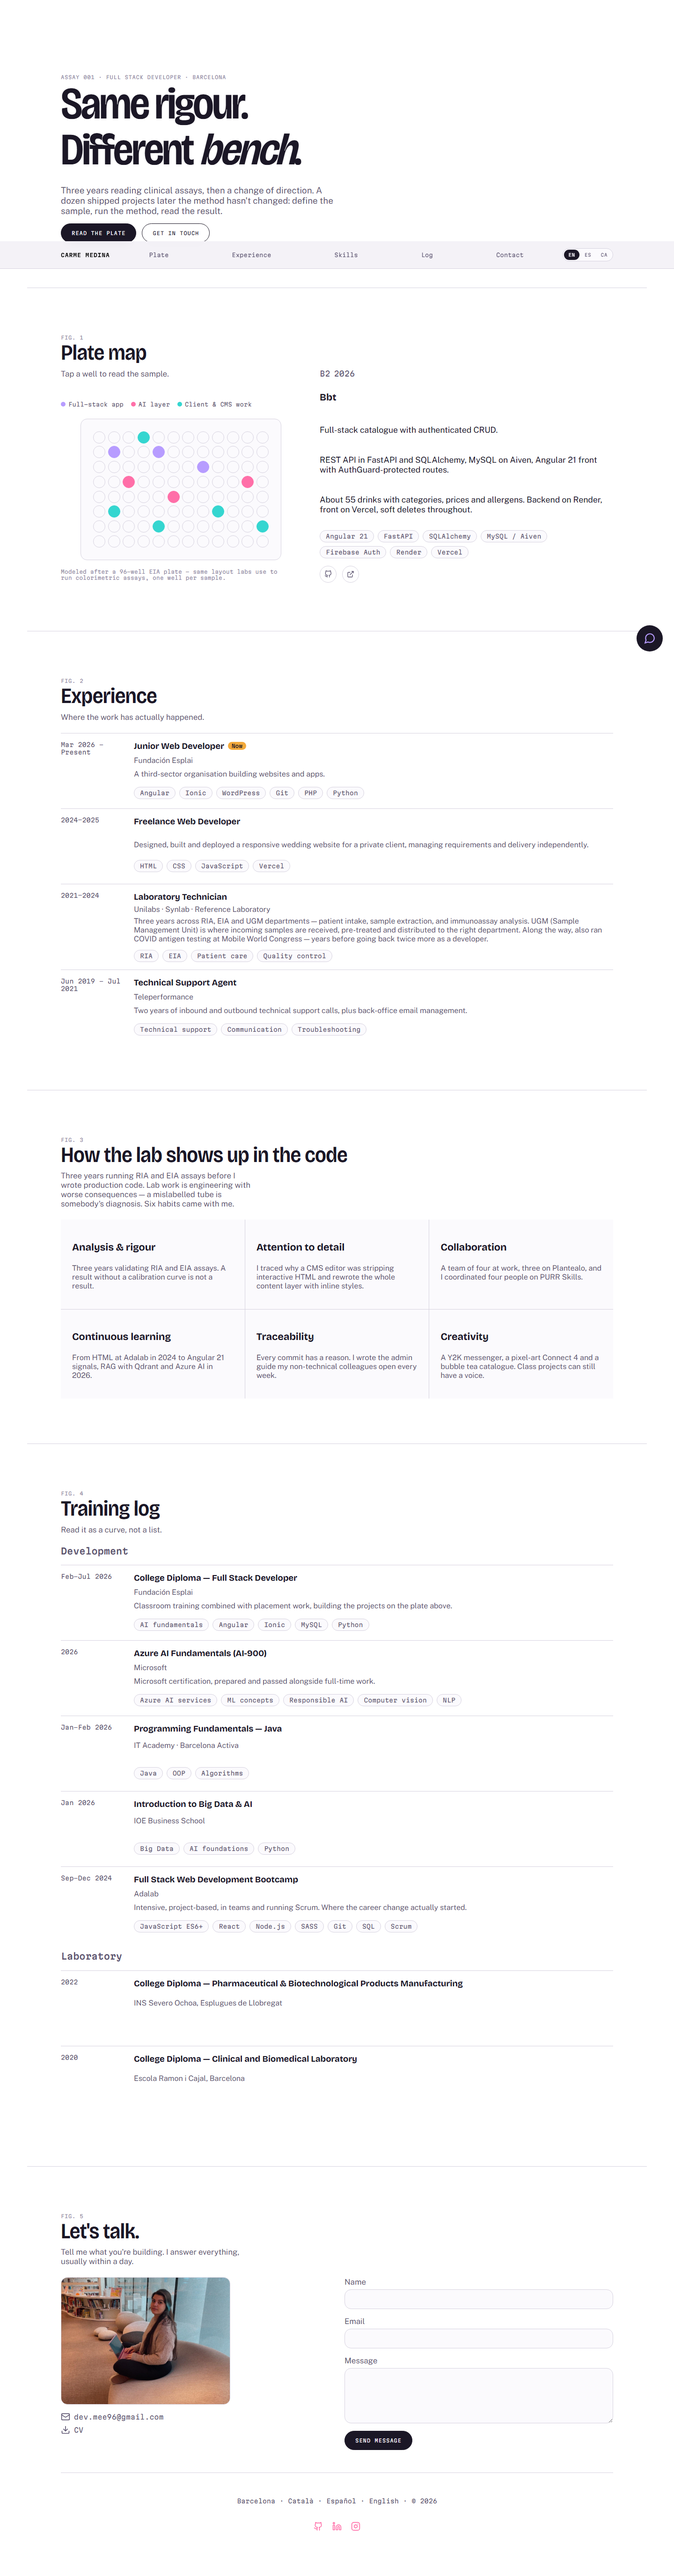
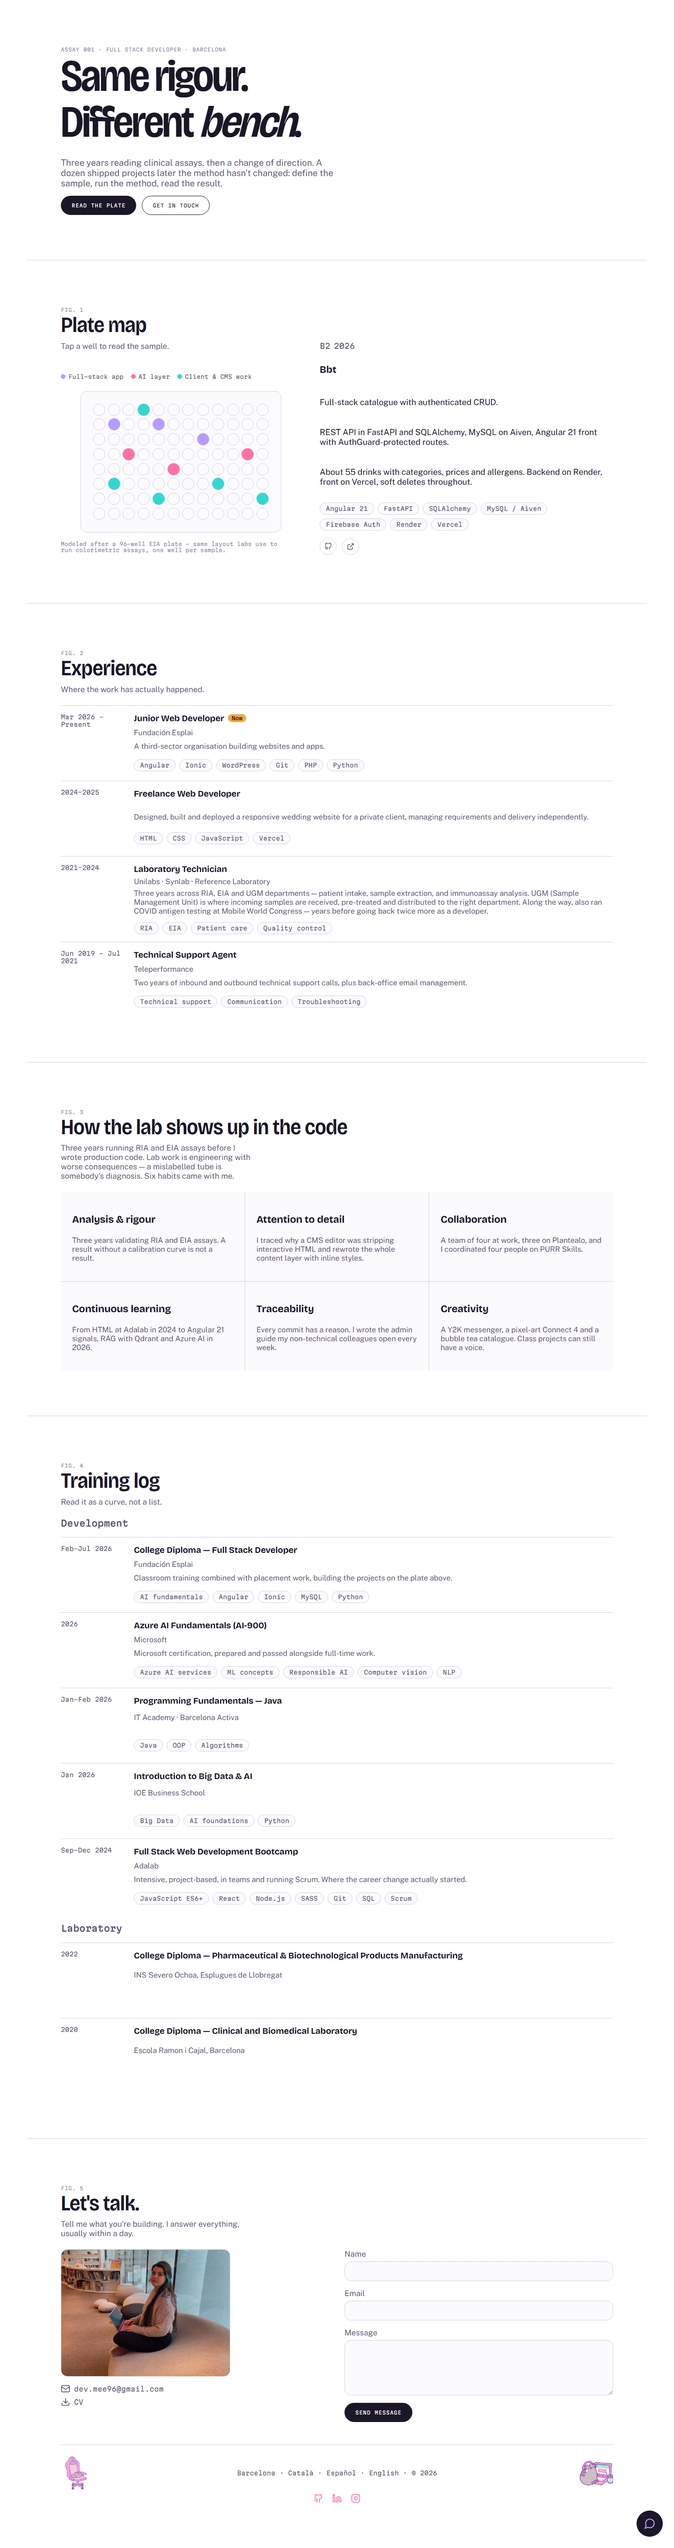
docs: polish header layout with grouped GIFs and language badges, crop overview screenshot and document keep-alive

diff --git a/README.es.md b/README.es.md
@@ -7,14 +7,12 @@
 <img src="frontend/public/Cat%20Spinning%20Sticker%20by%20Pusheen.gif" width="64px" alt=""/>
 &nbsp;&nbsp;
 <img src="frontend/public/Embarrassed%20Video%20Games%20Sticker%20by%20Pusheen.gif" width="64px" alt=""/>
-
-<br/><br/>
-
+<br/>
 [![English](https://img.shields.io/badge/English-5b9bd5?style=flat-square)](README.md)
 [![Español](https://img.shields.io/badge/Español-1b2e4b?style=flat-square)](#)
 [![Català](https://img.shields.io/badge/Català-a8c4f0?style=flat-square&logoColor=1b2e4b)](README.ca.md)
 
-<br/>
+<br/><br/>
 
 ![Angular](https://img.shields.io/badge/Angular-22-a8c4f0?style=for-the-badge&logo=angular&logoColor=1b2e4b)
 ![TypeScript](https://img.shields.io/badge/TypeScript-5b9bd5?style=for-the-badge&logo=typescript&logoColor=ffffff)
@@ -156,6 +154,8 @@ cp .env.example .env         # rellena las credenciales de abajo
 uvicorn app.main:app --reload</code></pre>
 
 > Opcional: tras editar cualquier fichero en `corpus/*.md`, reindexa Qdrant con `python -m app.rag.index`.
+
+> **Cold starts:** en producción el backend corre en el plan gratuito de Render, que detiene el servicio cuando está inactivo. [`mee96/keep-alive`](https://github.com/mee96/keep-alive) es un pequeño job programado que hace ping a `/health` a intervalos para mantenerlo despierto — apúntalo a tu propia URL de `/health` desplegada si haces un fork de esto y lo despliegas por tu cuenta; no hace falta para el desarrollo local.
 
 ### Frontend
 <pre><code>cd frontend

diff --git a/README.ca.md b/README.ca.md
@@ -7,14 +7,12 @@
 <img src="frontend/public/Cat%20Spinning%20Sticker%20by%20Pusheen.gif" width="64px" alt=""/>
 &nbsp;&nbsp;
 <img src="frontend/public/Embarrassed%20Video%20Games%20Sticker%20by%20Pusheen.gif" width="64px" alt=""/>
-
-<br/><br/>
-
+<br/>
 [![English](https://img.shields.io/badge/English-5b9bd5?style=flat-square)](README.md)
 [![Español](https://img.shields.io/badge/Español-a8c4f0?style=flat-square&logoColor=1b2e4b)](README.es.md)
 [![Català](https://img.shields.io/badge/Català-1b2e4b?style=flat-square)](#)
 
-<br/>
+<br/><br/>
 
 ![Angular](https://img.shields.io/badge/Angular-22-a8c4f0?style=for-the-badge&logo=angular&logoColor=1b2e4b)
 ![TypeScript](https://img.shields.io/badge/TypeScript-5b9bd5?style=for-the-badge&logo=typescript&logoColor=ffffff)
@@ -156,6 +154,8 @@ cp .env.example .env         # omple les credencials de sota
 uvicorn app.main:app --reload</code></pre>
 
 > Opcional: després d'editar qualsevol fitxer de `corpus/*.md`, reindexa Qdrant amb `python -m app.rag.index`.
+
+> **Cold starts:** en producció el backend corre en el pla gratuït de Render, que atura el servei quan està inactiu. [`mee96/keep-alive`](https://github.com/mee96/keep-alive) és un petit job programat que fa ping a `/health` a intervals per mantenir-lo despert — apunta'l a la teva pròpia URL de `/health` desplegada si en fas un fork i el desplegues pel teu compte; no cal per al desenvolupament local.
 
 ### Frontend
 <pre><code>cd frontend

diff --git a/README.md b/README.md
@@ -7,14 +7,12 @@
 <img src="frontend/public/Cat%20Spinning%20Sticker%20by%20Pusheen.gif" width="64px" alt=""/>
 &nbsp;&nbsp;
 <img src="frontend/public/Embarrassed%20Video%20Games%20Sticker%20by%20Pusheen.gif" width="64px" alt=""/>
-
-<br/><br/>
-
+<br/>
 [![English](https://img.shields.io/badge/English-1b2e4b?style=flat-square)](#)
 [![Español](https://img.shields.io/badge/Español-a8c4f0?style=flat-square&logoColor=1b2e4b)](README.es.md)
 [![Català](https://img.shields.io/badge/Català-5b9bd5?style=flat-square)](README.ca.md)
 
-<br/>
+<br/><br/>
 
 ![Angular](https://img.shields.io/badge/Angular-22-a8c4f0?style=for-the-badge&logo=angular&logoColor=1b2e4b)
 ![TypeScript](https://img.shields.io/badge/TypeScript-5b9bd5?style=for-the-badge&logo=typescript&logoColor=ffffff)
@@ -156,6 +154,8 @@ cp .env.example .env         # fill in the credentials below
 uvicorn app.main:app --reload</code></pre>
 
 > Optional: after editing anything under `corpus/*.md`, reindex Qdrant with `python -m app.rag.index`.
+
+> **Cold starts:** in production the backend runs on Render's free tier, which spins the service down when idle. [`mee96/keep-alive`](https://github.com/mee96/keep-alive) is a small scheduled job that pings `/health` on an interval to keep it warm — point it at your own deployed `/health` URL if you fork this and deploy it yourself; it isn't needed for local development.
 
 ### Frontend
 <pre><code>cd frontend
